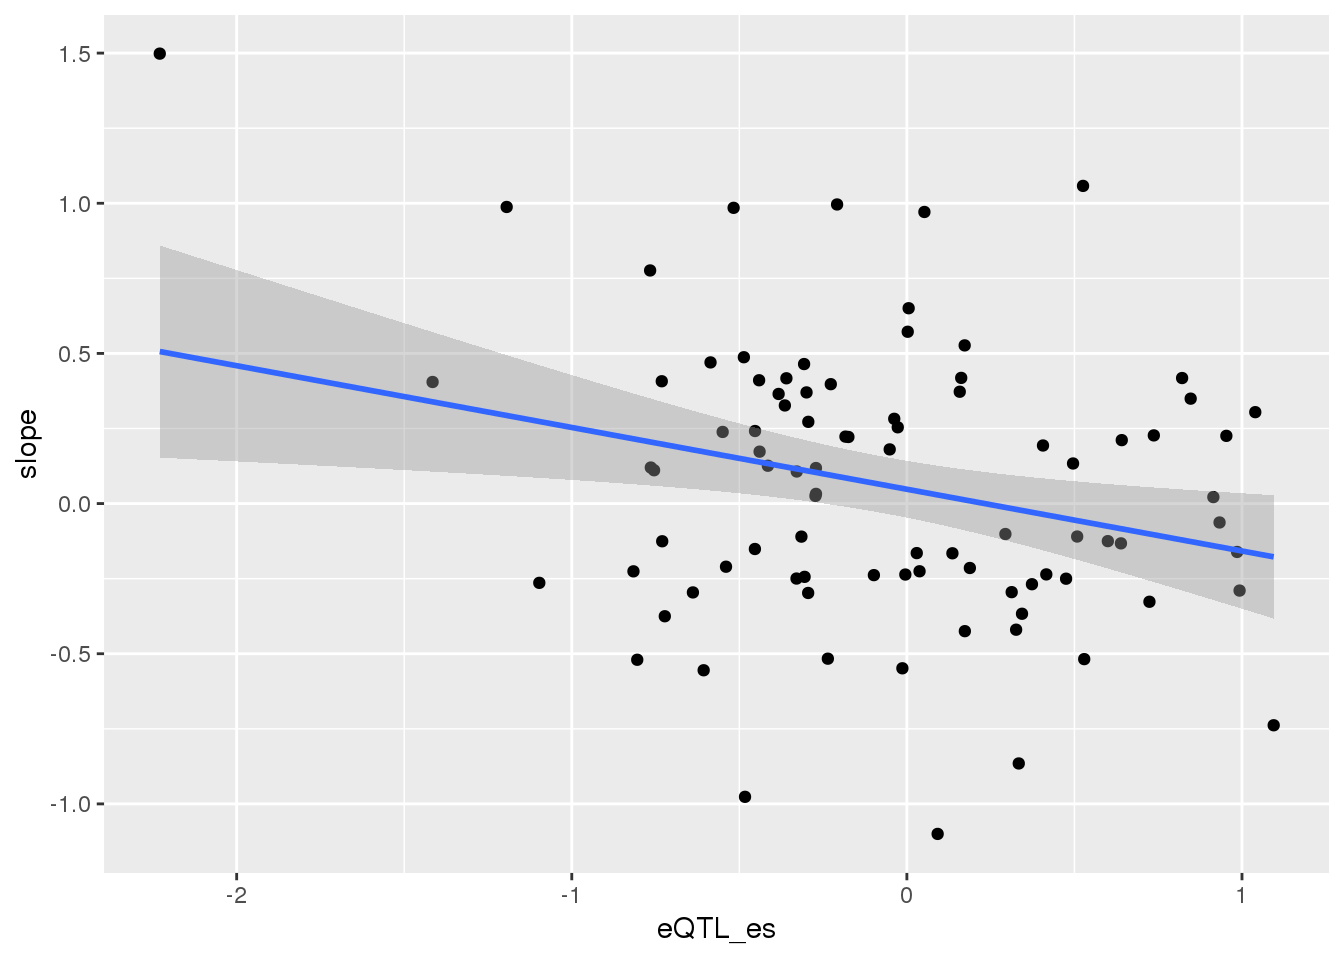
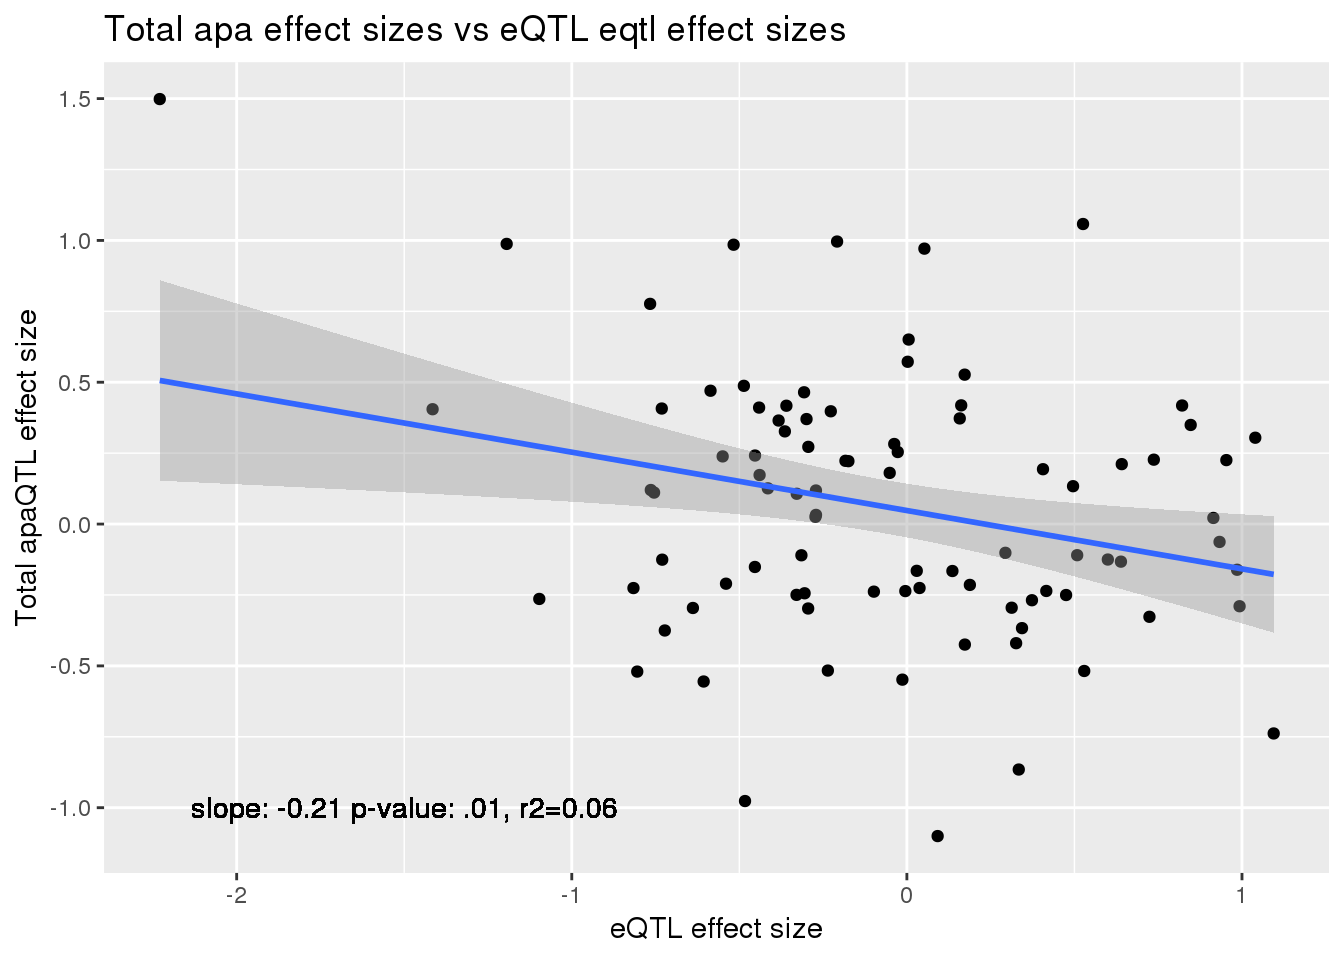
Build site.

diff --git a/docs/propeQTLs_explained.html b/docs/propeQTLs_explained.html
@@ -434,10 +434,10 @@ This reproducible <a href="http://rmarkdown.rstudio.com">R Markdown</a> analysis
 <div class="panel panel-default">
 <div class="panel-heading">
 <p class="panel-title">
-<a data-toggle="collapse" data-parent="#workflowr-checks" href="#strongRepositoryversionstrongahrefhttpsgithubcombrimittlemanapaQTLtreeec9c1d668ea814e169b0feb42ec34cfcf5bbf007targetblankec9c1d6a"> <span class="glyphicon glyphicon-ok text-success" aria-hidden="true"></span> <strong>Repository version:</strong> <a href="https://github.com/brimittleman/apaQTL/tree/ec9c1d668ea814e169b0feb42ec34cfcf5bbf007" target="_blank">ec9c1d6</a> </a>
+<a data-toggle="collapse" data-parent="#workflowr-checks" href="#strongRepositoryversionstrongahrefhttpsgithubcombrimittlemanapaQTLtreec53925ade53af946321efbf3cfad55b8dc0c8acctargetblankc53925aa"> <span class="glyphicon glyphicon-ok text-success" aria-hidden="true"></span> <strong>Repository version:</strong> <a href="https://github.com/brimittleman/apaQTL/tree/c53925ade53af946321efbf3cfad55b8dc0c8acc" target="_blank">c53925a</a> </a>
 </p>
 </div>
[2 lines of base64/hex data omitted]
 <div class="panel-body">
 <p>
 Great! You are using Git for version control. Tracking code development and connecting the code version to the results is critical for reproducibility. The version displayed above was the version of the Git repository at the time these results were generated. <br><br> Note that you need to be careful to ensure that all relevant files for the analysis have been committed to Git prior to generating the results (you can use <code>wflow_publish</code> or <code>wflow_git_commit</code>). workflowr only checks the R Markdown file, but you know if there are other scripts or data files that it depends on. Below is the status of the Git repository when the results were generated:
@@ -1055,6 +1055,40 @@ Message
 </tr>
 </thead>
 <tbody>
+<tr>
+<td>
+Rmd
+</td>
+<td>
+<a href="https://github.com/brimittleman/apaQTL/blob/c53925ade53af946321efbf3cfad55b8dc0c8acc/analysis/propeQTLs_explained.Rmd" target="_blank">c53925a</a>
+</td>
+<td>
+brimittleman
+</td>
+<td>
+2019-06-26
+</td>
+<td>
+add graph labels
+</td>
+</tr>
+<tr>
+<td>
+html
+</td>
+<td>
+<a href="https://rawcdn.githack.com/brimittleman/apaQTL/06de9dffb48034c9c4065fb3bc1373069f1f146b/docs/propeQTLs_explained.html" target="_blank">06de9df</a>
+</td>
+<td>
+brimittleman
+</td>
+<td>
+2019-06-26
+</td>
+<td>
+Build site.
+</td>
+</tr>
 <tr>
 <td>
 Rmd
@@ -1814,8 +1848,45 @@ brimittleman
 <pre class="r"><code>alleQTLS_total=bind_rows(totalapaUnexplained, totalapaexplained) %&gt;% filter(loc==&quot;intron&quot;) %&gt;% inner_join(eQTLeffect, by=c(&quot;gene&quot;,&quot;snp&quot;))
 
 
-ggplot(alleQTLS_total,aes(x=eQTL_es, y=slope)) + geom_point() + geom_smooth(method = &quot;lm&quot;)</code></pre>
+ggplot(alleQTLS_total,aes(x=eQTL_es, y=slope)) + geom_point() + geom_smooth(method = &quot;lm&quot;) +geom_text(y=-1, x=-1.5, label=&quot;slope: -0.21 p-value: .01, r2=0.06&quot;) + labs(title=&quot;Total apa effect sizes vs eQTL eqtl effect sizes&quot;, y=&quot;Total apaQTL effect size&quot;,x=&quot;eQTL effect size&quot;)</code></pre>
 <p><img src="figure/propeQTLs_explained.Rmd/unnamed-chunk-25-1.png" width="672" style="display: block; margin: auto;" /></p>
+<p>
+<button type="button" class="btn btn-default btn-xs btn-workflowr btn-workflowr-fig" data-toggle="collapse" data-target="#fig-unnamed-chunk-25-1">
+Past versions of unnamed-chunk-25-1.png
+</button>
+</p>
+<div id="fig-unnamed-chunk-25-1" class="collapse">
+<div class="table-responsive">
+<table class="table table-condensed table-hover">
+<thead>
+<tr>
+<th>
+Version
+</th>
+<th>
+Author
+</th>
+<th>
+Date
+</th>
+</tr>
+</thead>
+<tbody>
+<tr>
+<td>
+<a href="https://github.com/brimittleman/apaQTL/blob/06de9dffb48034c9c4065fb3bc1373069f1f146b/docs/figure/propeQTLs_explained.Rmd/unnamed-chunk-25-1.png" target="_blank">06de9df</a>
+</td>
+<td>
+brimittleman
+</td>
+<td>
+2019-06-26
+</td>
+</tr>
+</tbody>
+</table>
+</div>
+</div>
 <pre class="r"><code>summary(lm(alleQTLS_total$slope ~alleQTLS_total$eQTL_es))</code></pre>
 <pre><code>
 Call:
@@ -1839,8 +1910,45 @@ F-statistic: 6.746 on 1 and 87 DF,  p-value: 0.01103</code></pre>
 <pre class="r"><code>alleQTLS_nuclear=bind_rows(nuclearapaUnexplained,nuclearapaexplained) %&gt;% filter(loc==&quot;intron&quot;) %&gt;% inner_join(eQTLeffect, by=c(&quot;gene&quot;,&quot;snp&quot;))
 
 
-ggplot(alleQTLS_nuclear,aes(x=eQTL_es, y=slope)) + geom_point() + geom_smooth(method = &quot;lm&quot;)</code></pre>
+ggplot(alleQTLS_nuclear,aes(x=eQTL_es, y=slope)) + geom_point() + geom_smooth(method = &quot;lm&quot;) +geom_text(y=-1, x=-1.5, label=&quot;slope: -0.18 p-value: .005, r2=0.05&quot;) + labs(title=&quot;Nuclear apa effect sizes vs eQTL eqtl effect sizes&quot;, y=&quot;Nuclear apaQTL effect size&quot;,x=&quot;eQTL effect size&quot;)</code></pre>
 <p><img src="figure/propeQTLs_explained.Rmd/unnamed-chunk-26-1.png" width="672" style="display: block; margin: auto;" /></p>
+<p>
+<button type="button" class="btn btn-default btn-xs btn-workflowr btn-workflowr-fig" data-toggle="collapse" data-target="#fig-unnamed-chunk-26-1">
+Past versions of unnamed-chunk-26-1.png
+</button>
+</p>
+<div id="fig-unnamed-chunk-26-1" class="collapse">
+<div class="table-responsive">
+<table class="table table-condensed table-hover">
+<thead>
+<tr>
+<th>
+Version
+</th>
+<th>
+Author
+</th>
+<th>
+Date
+</th>
+</tr>
+</thead>
+<tbody>
+<tr>
+<td>
+<a href="https://github.com/brimittleman/apaQTL/blob/06de9dffb48034c9c4065fb3bc1373069f1f146b/docs/figure/propeQTLs_explained.Rmd/unnamed-chunk-26-1.png" target="_blank">06de9df</a>
+</td>
+<td>
+brimittleman
+</td>
+<td>
+2019-06-26
+</td>
+</tr>
+</tbody>
+</table>
+</div>
+</div>
 <pre class="r"><code>summary(lm(alleQTLS_nuclear$slope ~alleQTLS_nuclear$eQTL_es))</code></pre>
 <pre><code>
 Call:
@@ -1915,6 +2023,43 @@ character vector</code></pre>
 <p>Ref,T Alt= G</p>
 <pre class="r"><code>ggplot(allRNA, aes(x=genotype, y=Expression,group=genotype, fill=genotype)) + geom_boxplot() + geom_jitter()+scale_fill_brewer(palette = &quot;YlOrRd&quot;) + labs(title=&quot;Unexplained eQTL: KDELR2 - rs6962012&quot;)</code></pre>
 <p><img src="figure/propeQTLs_explained.Rmd/unnamed-chunk-32-1.png" width="672" style="display: block; margin: auto;" /></p>
+<p>
+<button type="button" class="btn btn-default btn-xs btn-workflowr btn-workflowr-fig" data-toggle="collapse" data-target="#fig-unnamed-chunk-32-1">
+Past versions of unnamed-chunk-32-1.png
+</button>
+</p>
+<div id="fig-unnamed-chunk-32-1" class="collapse">
+<div class="table-responsive">
+<table class="table table-condensed table-hover">
+<thead>
+<tr>
+<th>
+Version
+</th>
+<th>
+Author
+</th>
+<th>
+Date
+</th>
+</tr>
+</thead>
+<tbody>
+<tr>
+<td>
+<a href="https://github.com/brimittleman/apaQTL/blob/06de9dffb48034c9c4065fb3bc1373069f1f146b/docs/figure/propeQTLs_explained.Rmd/unnamed-chunk-32-1.png" target="_blank">06de9df</a>
+</td>
+<td>
+brimittleman
+</td>
+<td>
+2019-06-26
+</td>
+</tr>
+</tbody>
+</table>
+</div>
+</div>
 <p>Make locus zoom</p>
 <pre class="bash"><code>mkdir ../data/locusZoom</code></pre>
 <p>peak119699 KDELR2 ENSG00000136240.5</p>
